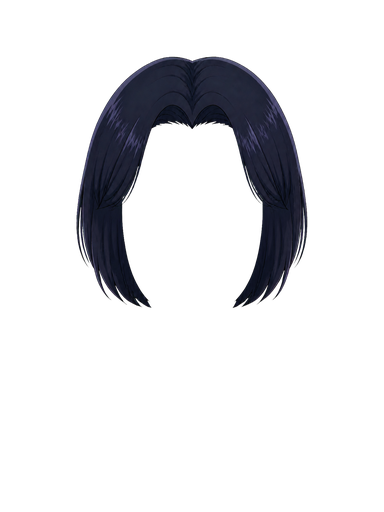
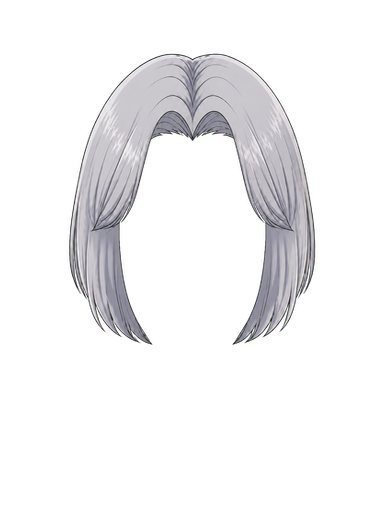
Ship reviewed portrait hair runtime

Changed region(s): [[0.1562, 0.0938, 0.8438, 0.6875]]

diff --git a/src/portrait-v2.js b/src/portrait-v2.js
@@ -43,19 +43,12 @@ const CX = 192;
 const INK = '#211C2A';
 const SOFT_INK = '#453B4E';
 
-// Formal raster parts are enabled only as exact reviewed triples. Unreviewed
-// faces, eyes, fringes and hairstyles stay on the procedural safety renderer;
-// they must never be mixed with independently generated legacy assets.
 export const RASTER_PARTS_VALIDATED = true;
-export const FORMAL_RASTER_TRIPLES = Object.freeze([
-  Object.freeze({ face: 'round', eye: 'round', fringe: 'part', hair: 'long' }),
-  Object.freeze({ face: 'oval', eye: 'round', fringe: 'part', hair: 'long' }),
-  Object.freeze({ face: 'square', eye: 'round', fringe: 'part', hair: 'long' }),
-  Object.freeze({ face: 'sharp', eye: 'round', fringe: 'part', hair: 'long' }),
-  Object.freeze({ face: 'chubby', eye: 'round', fringe: 'part', hair: 'long' }),
-  Object.freeze({ face: 'cat', eye: 'round', fringe: 'part', hair: 'long' }),
-  Object.freeze({ face: 'oval', eye: 'almond', fringe: 'part', hair: 'bob' }),
-]);
+export const FORMAL_RASTER_PARTS = Object.freeze({
+  faces: Object.freeze(FACES.map((part) => part.id)),
+  eyes: Object.freeze(EYES.map((part) => part.id)),
+  hairs: Object.freeze(LENGTHS.map((part) => part.id)),
+});
 
 const FACE_STYLE = [
   { id: 'round', temple: 91, cheek: 108, jaw: 91, chin: 48, earW: 24, earH: 51, nose: 'soft', mouth: 'warm' },
@@ -450,15 +443,22 @@ function tintLayer(image, kind, color) {
   const pixels = ctx.getImageData(0, 0, W, H), data = pixels.data;
   const target = color.replace('#', '');
   const tr = parseInt(target.slice(0, 2), 16), tg = parseInt(target.slice(2, 4), 16), tb = parseInt(target.slice(4, 6), 16);
+  const blend = (from, to, amount) => from.map((value, index) => Math.round(value + (to[index] - value) * amount));
+  const hairTarget = [tr, tg, tb];
+  const hairShadow = blend(hairTarget, [18, 16, 22], .62);
+  const hairLight = blend(hairTarget, [250, 248, 244], .58);
+  const hairSpec = blend(hairLight, [255, 255, 255], .84);
   for (let i = 0; i < data.length; i += 4) {
     if (data[i + 3] < 8) continue;
     const r = data[i], g = data[i + 1], b = data[i + 2];
     const lum = r * .299 + g * .587 + b * .114;
     if (kind === 'hair') {
-      if (lum < 20) continue;
-      const light = Math.max(.24, Math.min(1.42, lum / 76));
-      data[i] = Math.min(255, tr * light); data[i + 1] = Math.min(255, tg * light); data[i + 2] = Math.min(255, tb * light);
-      if (lum > 75) { data[i] = (data[i] + 130) / 2; data[i + 1] = (data[i + 1] + 142) / 2; data[i + 2] = (data[i + 2] + 220) / 2; }
+      let out;
+      if (lum < 42) out = blend([10, 9, 13], hairShadow, Math.max(0, lum / 42));
+      else if (lum < 132) out = blend(hairShadow, hairTarget, (lum - 42) / 90);
+      else if (lum < 210) out = blend(hairTarget, hairLight, (lum - 132) / 78);
+      else out = blend(hairLight, hairSpec, (lum - 210) / 45);
+      data[i] = out[0]; data[i + 1] = out[1]; data[i + 2] = out[2];
     } else if (kind === 'iris') {
       if (!(b > r + 12 && g > r + 5 && lum > 70)) continue;
       const light = Math.max(.42, Math.min(1.55, lum / 155));
@@ -487,11 +487,10 @@ function drawLayeredPortrait(a) {
   if (typeof document === 'undefined') return null;
   const faceId = FACES[safeIndex(a.face, FACES.length)]?.id || 'round';
   const eyeId = EYES[safeIndex(a.eye, EYES.length)]?.id || 'round';
-  const fringeId = FRINGES[safeIndex(a.fringe, FRINGES.length)]?.id || 'straight';
   const hairId = LENGTHS[safeIndex(a.hairLen, LENGTHS.length)]?.id || 'bald';
-  const approved = FORMAL_RASTER_TRIPLES.find((part) => (
-    part.face === faceId && part.eye === eyeId && part.fringe === fringeId && part.hair === hairId
-  ));
+  const approved = FORMAL_RASTER_PARTS.faces.includes(faceId)
+    && FORMAL_RASTER_PARTS.eyes.includes(eyeId)
+    && FORMAL_RASTER_PARTS.hairs.includes(hairId);
   if (!approved) return null;
   const face = requestLayer(`assets/portrait-v2-formal/faces/${faceId}.png`);
   const ears = requestLayer(`assets/portrait-v2-formal/ears/${faceId}.png`);
@@ -504,9 +503,9 @@ function drawLayeredPortrait(a) {
   drawBackdrop(ctx, pal);
   drawBody(ctx, a, pal);
   ctx.drawImage(tintLayer(face, 'skin', pal.skin), 0, 0);
+  ctx.drawImage(tintLayer(ears, 'skin', pal.skin), 0, 0);
   ctx.drawImage(tintLayer(eyes, 'iris', pal.iris), 0, 0);
   ctx.drawImage(tintLayer(hair, 'hair', pal.hair), 0, 0);
-  ctx.drawImage(tintLayer(ears, 'skin', pal.skin), 0, 0);
   drawRaceFront(ctx, safeIndex(a.race, 18), pal);
   drawAccessory(ctx, a, pal);
   drawFinish(ctx);
